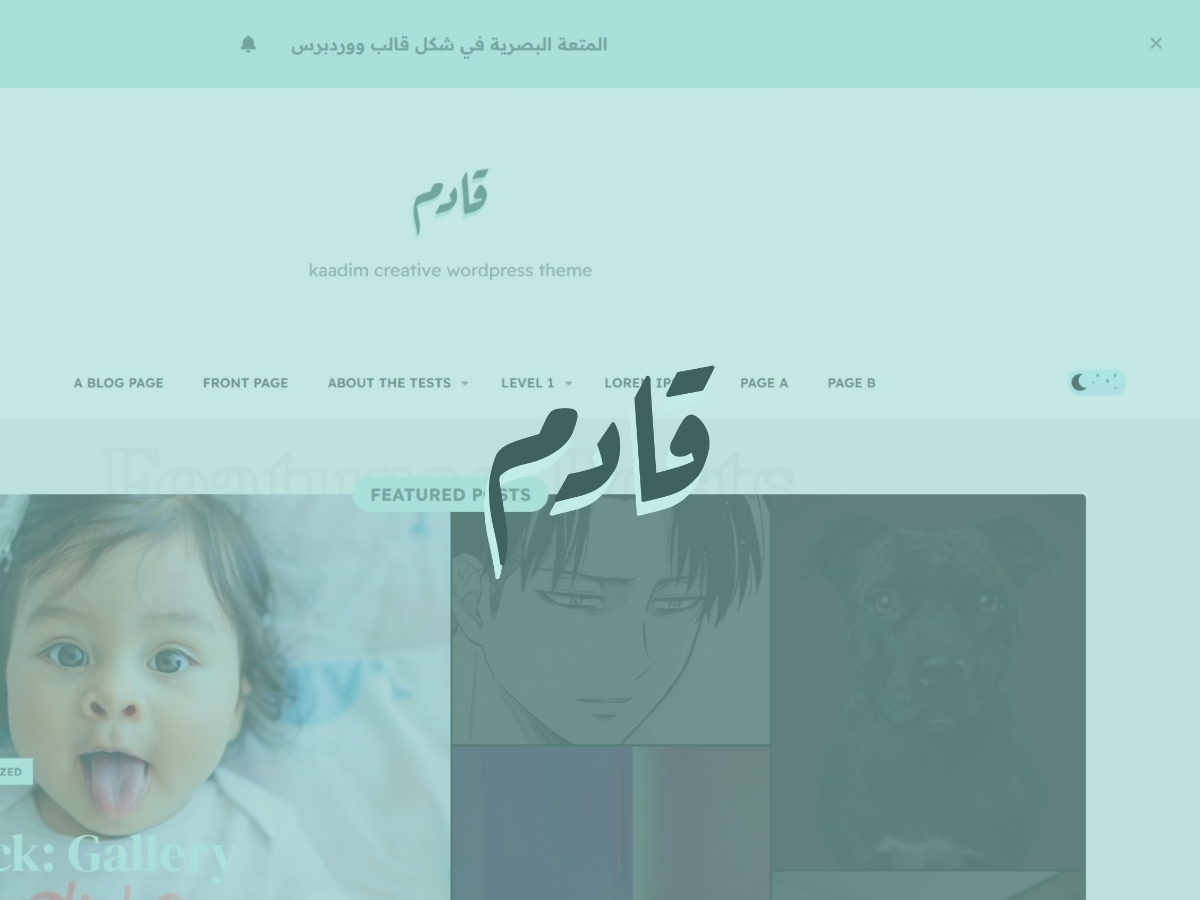
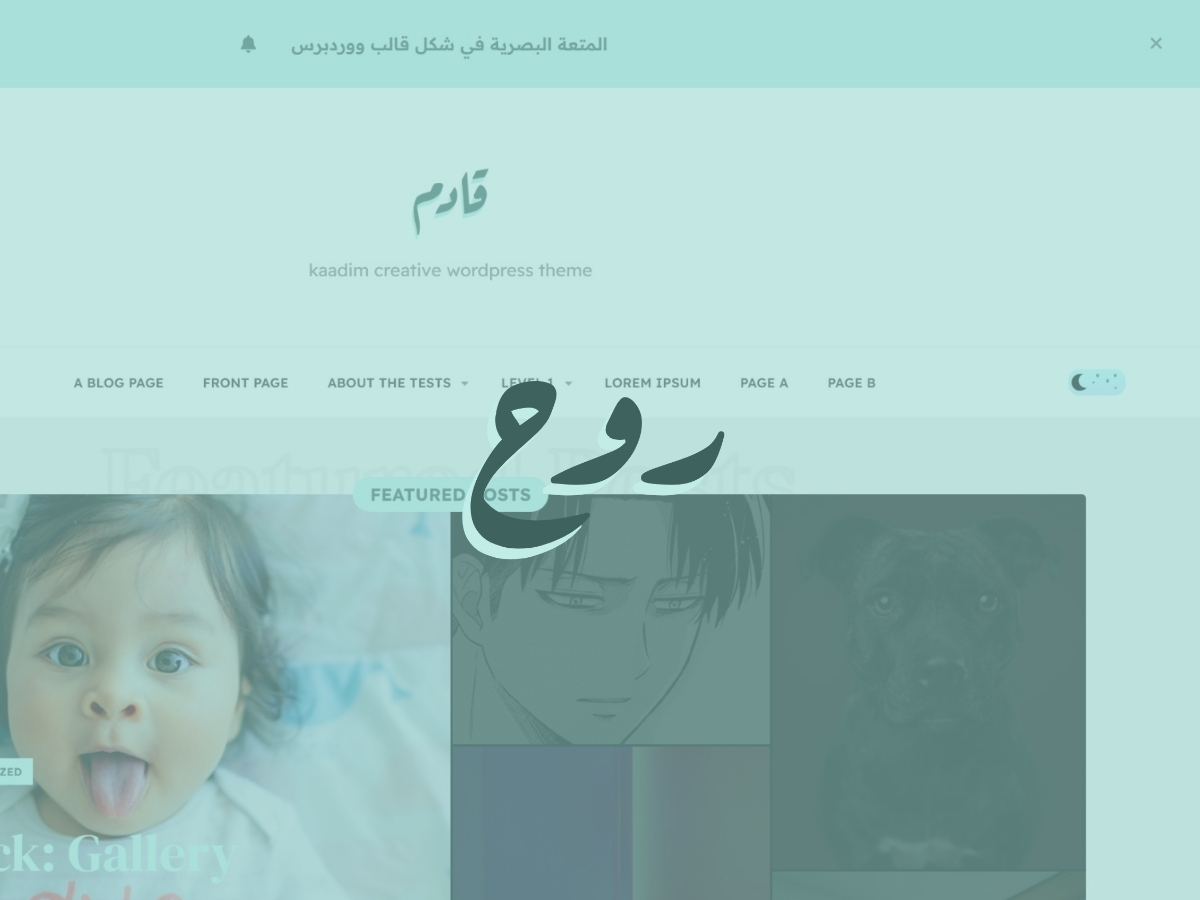
renaming the product

Changed region(s): [[0.37, 0.4044, 0.6167, 0.6533]]

diff --git a/style.css b/style.css
@@ -3,12 +3,12 @@ Theme Name: rouh
 Theme URI: https://github.com/brahimi-mustapha/rouh
 Author: Moustafa Brahimi
 Author URI: https://github.com/brahimi-mustapha/
-Description: rouh ( قادم ) is a creative wordpress theme for personal blogs, it comes with stylish and elegant design
+Description: rouh ( روح ) is a creative wordpress theme for personal blogs, it comes with stylish and elegant design
 Tags: blog, custom-background, custom-colors, custom-logo, custom-menu, featured-images, full-width-template, rtl-language-support, theme-options, translation-ready, accessibility-ready, dark-mode
 Version: 1.0.0
 Requires at least: 6.0
 Tested up to: 6.2.2
-Requires PHP: 7.4
+Requires PHP: 7.0
 License: Picalica License
 License URI: https://picalica.com/pages/licenses
 Text Domain: rouh
